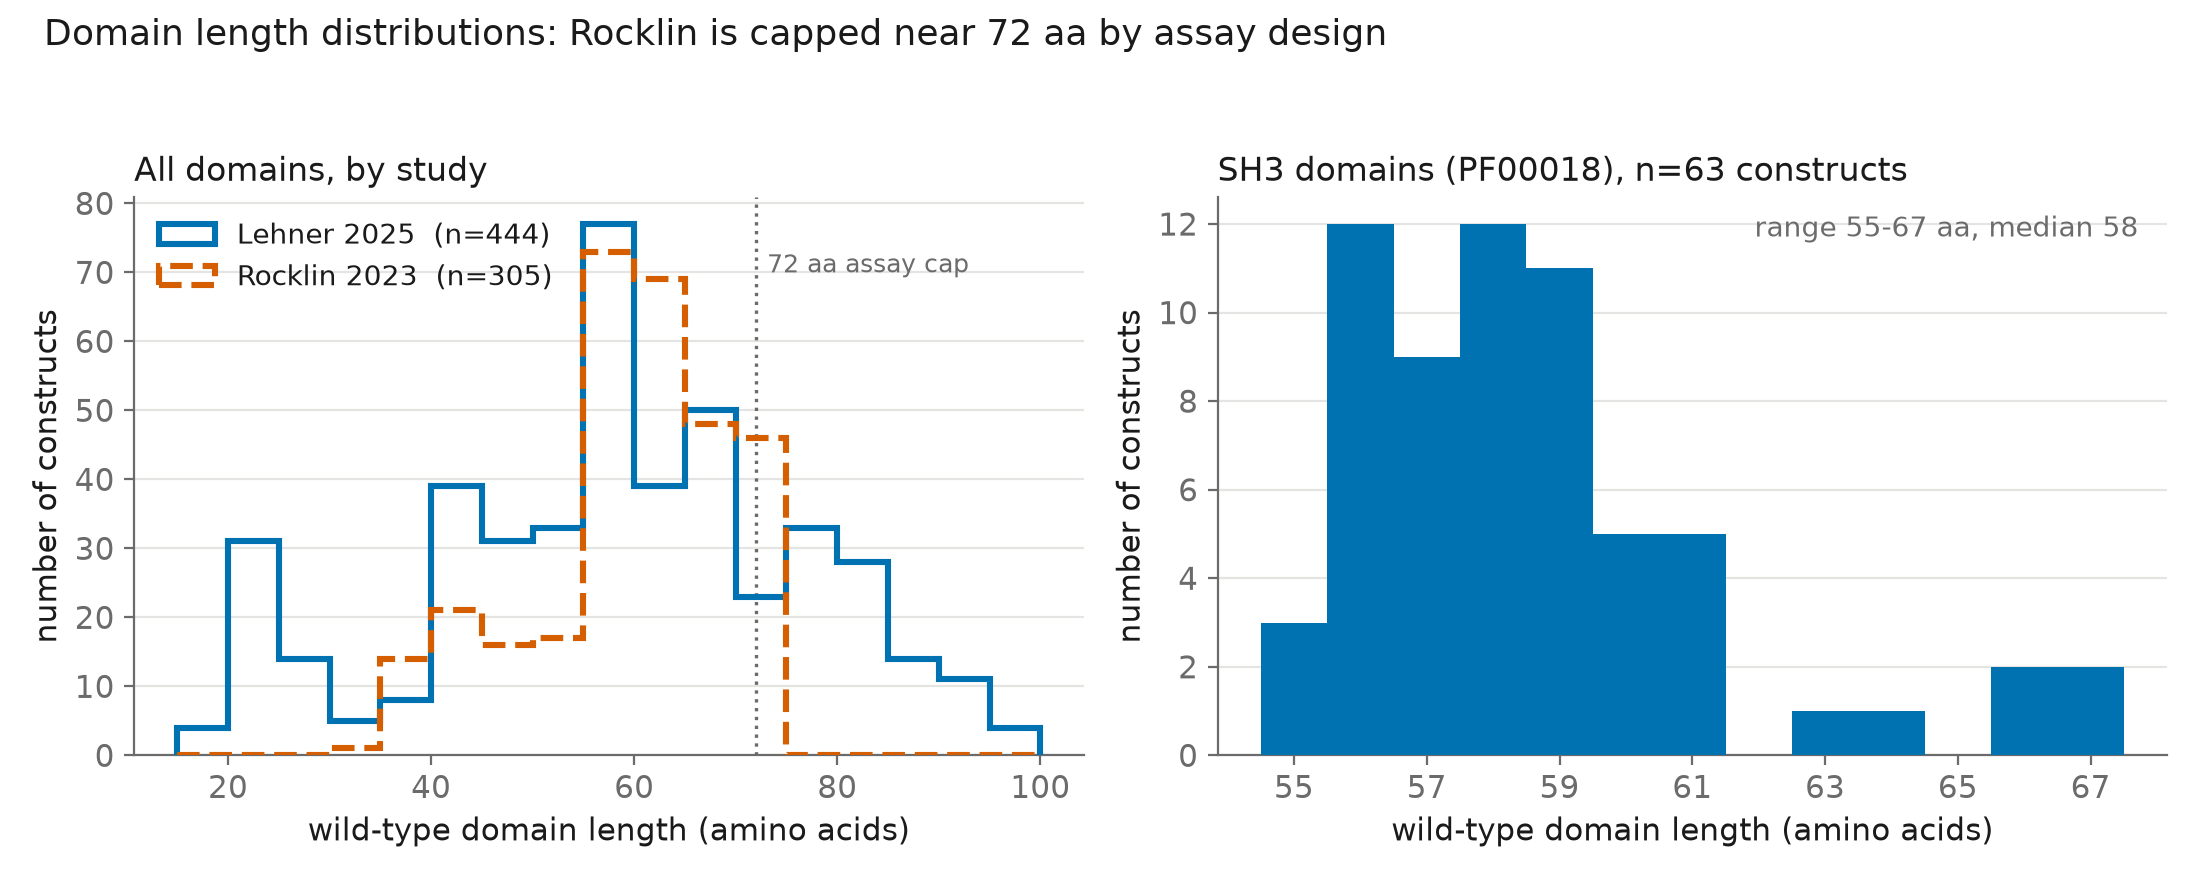
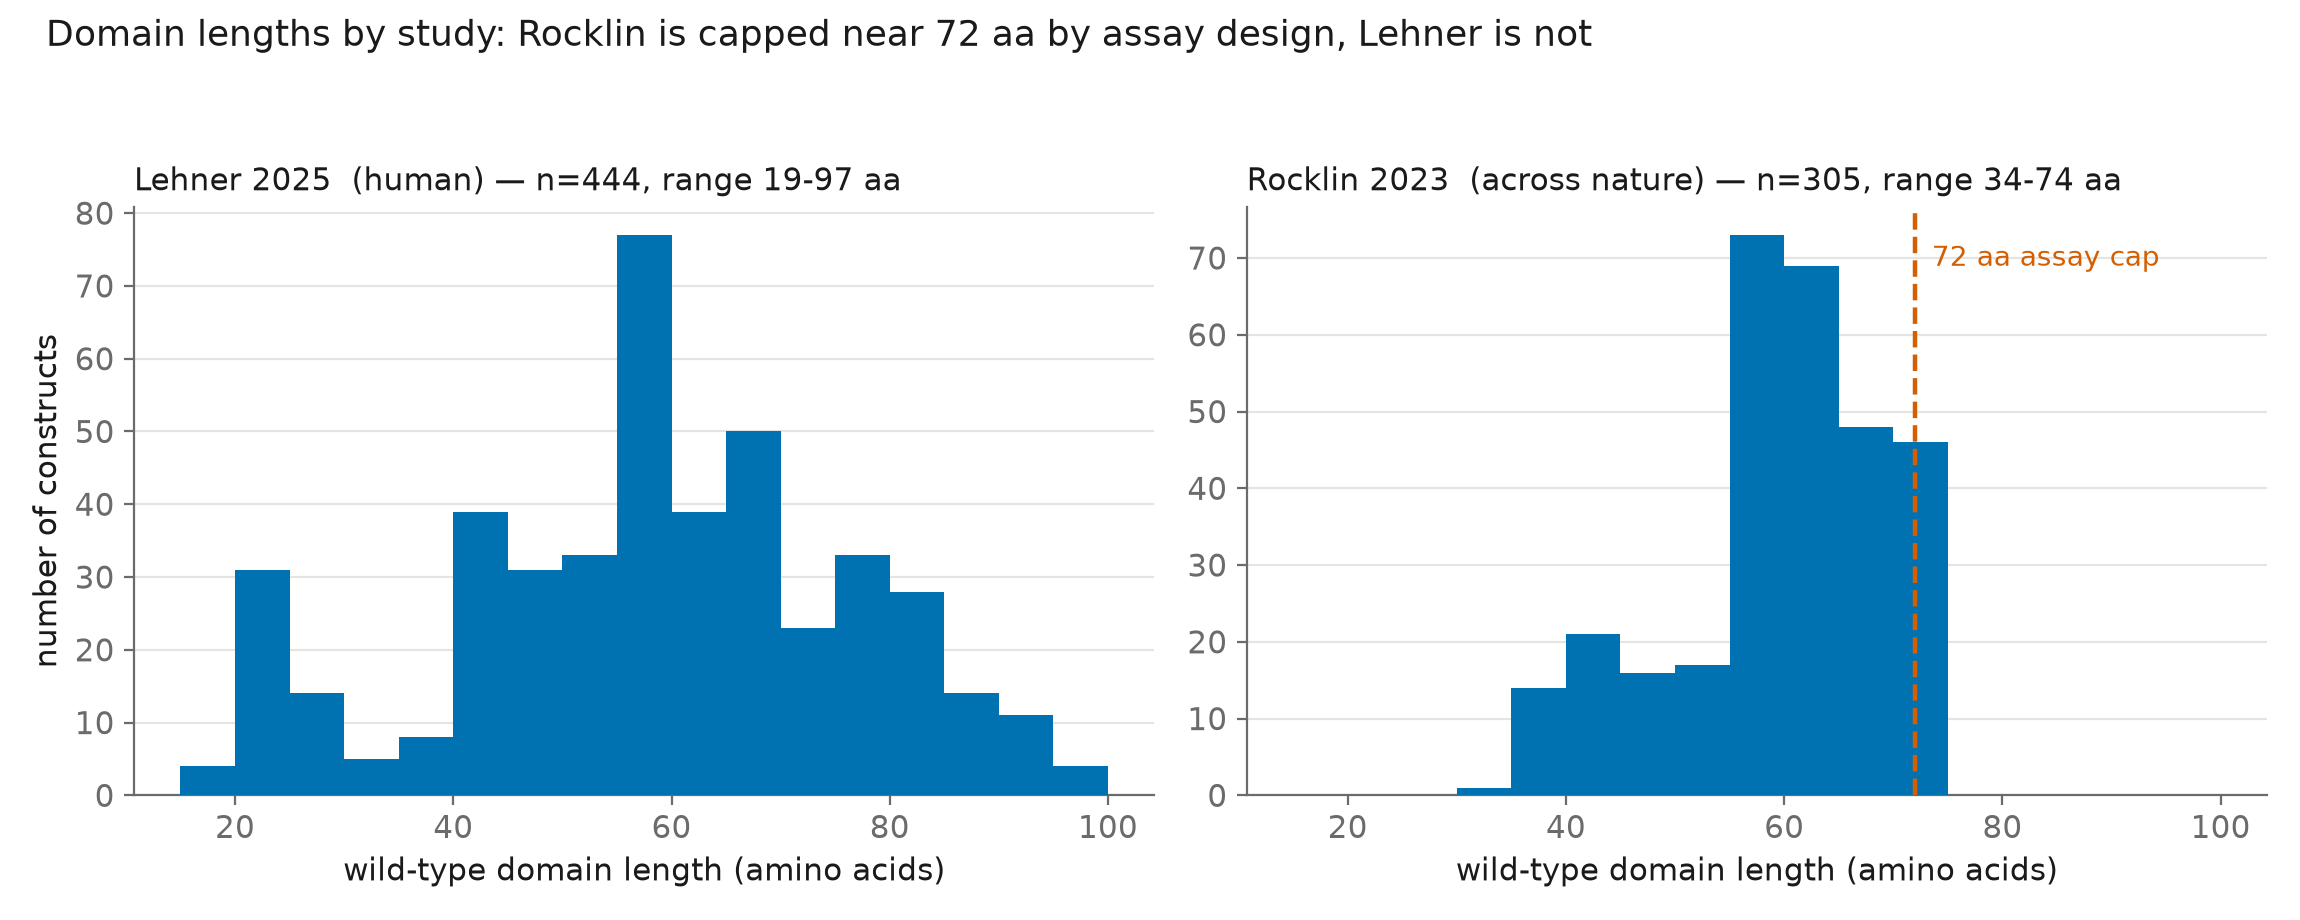
Split every figure into per-study panels
The two studies sample different parts of protein space, so pooled panels
overstated how much depth is available. Every figure now shows Lehner and
Rocklin side by side, and the SH3 pilot family gets its own figure rather than
sharing one with the overall length distribution.

The revised figures make the constraint visible: Lehner carries 25 families at
a cutoff of five domains against Rocklin's 9, and the 60-70% identity range
holds in Lehner while Rocklin has too few families for the criterion to
discriminate at any threshold.

Claude-Session: https://claude.ai/code/session_015mdiiQkAjyaVU4Tc8Dhdh1

diff --git a/scripts/make_figures.py b/scripts/make_figures.py
@@ -12,6 +12,8 @@ output_dir = f"{project_dir}/figures"
 min_wt_seqs = 5
 identity_low = 0.60
 identity_high = 0.70
+studies = [('lehner', 'Lehner 2025  (human)'), ('rocklin', 'Rocklin 2023  (across nature)')]
+thresholds = [2, 3, 4, 5, 6, 8, 10, 12, 15, 20, 26, 30]
 
 os.makedirs(output_dir, exist_ok = True)
 
@@ -46,131 +48,133 @@ def recede(ax):
     ax.set_axisbelow(True)
 
 
+constructs = pd.read_csv(results_dir + "/constructs.csv")
+annotated = constructs.dropna(subset = ['pfam_acc'])
+
+# one row per distinct wild-type domain per study, so the two studies are never pooled
+domains = (annotated.groupby(['pfam_acc', 'wt_sequence'])['paper']
+           .apply(lambda s: set(s)).reset_index(name = 'papers'))
+
 # ---------------------------------------------------------------- figure 1
-# why at least five domains per family: what survives each candidate cutoff
-survival = pd.read_csv(f"{results_dir}/pfam_survival.csv")
+# family depth within each study: how many families survive each cutoff
+fig, axes = plt.subplots(1, 2, figsize = (11.5, 4.6), sharey = True)
 
-fig, axes = plt.subplots(1, 2, figsize = (11, 4.4))
+for ax, (study, label) in zip(axes, studies):
+    recede(ax)
+    present = domains[domains['papers'].apply(lambda p: study in p)]
+    depth = present.groupby('pfam_acc').size()
+    kept = [int((depth >= t).sum()) for t in thresholds]
+    variants = []
+    for t in thresholds:
+        families = depth[depth >= t].index
+        subset = annotated[(annotated['paper'] == study) & (annotated['pfam_acc'].isin(families))]
+        total = annotated[annotated['paper'] == study]['n_variants'].sum()
+        variants.append(100 * subset['n_variants'].sum() / total)
 
-ax = axes[0]
-recede(ax)
-ax.axvline(min_wt_seqs, color = muted, linestyle = ':', linewidth = 1.2, zorder = 1)
-ax.plot(survival['min_wt_seqs'], survival['n_families'], marker = 'o', markersize = 6,
-        linewidth = 2, color = blue, label = 'families retained', zorder = 3)
-ax.plot(survival['min_wt_seqs'], survival['families_in_both'], marker = 's', markersize = 6,
-        linewidth = 2, color = vermillion, label = 'retained and present in both studies', zorder = 3)
-chosen = survival[survival['min_wt_seqs'] == min_wt_seqs].iloc[0]
-ax.annotate(f"{int(chosen['n_families'])} families", xy = (min_wt_seqs, chosen['n_families']),
-            xytext = (8, 10), textcoords = 'offset points', color = blue, fontsize = 10)
-ax.text(0.04, 0.05, f"{int(chosen['families_in_both'])} of them present in both studies",
-        transform = ax.transAxes, color = vermillion, fontsize = 10)
-ax.set_xlim(0, 31)
-ax.set_xlabel('minimum distinct wild-type domains per family')
-ax.set_ylabel('number of Pfam families')
-ax.set_title('Families retained at each cutoff', loc = 'left')
-ax.legend(loc = 'upper right')
+    ax.axvline(min_wt_seqs, color = muted, linestyle = ':', linewidth = 1.2, zorder = 1)
+    ax.plot(thresholds, kept, marker = 'o', markersize = 6, linewidth = 2,
+            color = blue, label = 'families retained', zorder = 3)
+    at_cutoff = kept[thresholds.index(min_wt_seqs)]
+    pct_at_cutoff = variants[thresholds.index(min_wt_seqs)]
+    ax.annotate(f"{at_cutoff} families\n{pct_at_cutoff:.0f}% of this study's variants",
+                xy = (min_wt_seqs, at_cutoff), xytext = (14, 14),
+                textcoords = 'offset points', color = blue, fontsize = 10)
+    ax.set_xlim(0, 31)
+    ax.set_xlabel('minimum distinct wild-type domains per family')
+    ax.set_title(label, loc = 'left')
 
-ax = axes[1]
-recede(ax)
-ax.axvline(min_wt_seqs, color = muted, linestyle = ':', linewidth = 1.2, zorder = 1)
-ax.plot(survival['min_wt_seqs'], survival['pct_variants'], marker = 'o', markersize = 6,
-        linewidth = 2, color = blue, zorder = 3)
-ax.annotate(f"{chosen['pct_variants']:.0f}% of variants kept\nat a cutoff of {min_wt_seqs}",
-            xy = (min_wt_seqs, chosen['pct_variants']), xytext = (14, 6),
-            textcoords = 'offset points', fontsize = 10, color = ink)
-ax.set_ylim(0, 100)
-ax.set_xlim(0, 31)
-ax.set_xlabel('minimum distinct wild-type domains per family')
-ax.set_ylabel('percent of all variants retained')
-ax.set_title('Data retained at each cutoff', loc = 'left')
-
-fig.suptitle("Choosing a family-size threshold: 5 domains keeps 32 families and 65% of the data",
+axes[0].set_ylabel('number of Pfam families')
+axes[0].legend(loc = 'upper right')
+fig.suptitle("Family depth within each study: Lehner carries 25 families at a cutoff of 5, Rocklin only 9",
              fontsize = 13, x = 0.02, ha = 'left')
-plt.tight_layout(rect = [0, 0, 1, 0.94])
-path = f"{output_dir}/family_size_threshold.png"
-plt.savefig(path)
+plt.tight_layout(rect = [0, 0, 1, 0.93])
+plt.savefig(f"{output_dir}/family_size_threshold.png")
 plt.close()
-print(f"saved {path}")
+print("saved family_size_threshold.png")
 
 # ---------------------------------------------------------------- figure 2
-# why 60-70 percent identity: usable families against the two failure modes
+# clustering behaviour within each study
 report = pd.read_csv(f"{results_dir}/cluster_report.csv")
 report['usable'] = (report['n_clusters'] >= 5) & (report['pct_in_largest'] <= 50)
 report['fragmented'] = report['pct_in_largest'] < 15
 report['dominated'] = report['pct_in_largest'] > 50
-by_threshold = report.groupby('threshold')[['usable', 'fragmented', 'dominated']].sum().reset_index()
-n_families = report['pfam_acc'].nunique()
 
-fig, ax = plt.subplots(figsize = (8, 5))
-recede(ax)
-ax.axvspan(identity_low * 100, identity_high * 100, color = "#eef2f6", zorder = 0)
-ax.plot(by_threshold['threshold'] * 100, by_threshold['usable'], marker = 'o', markersize = 7,
-        linewidth = 2.2, color = blue, label = 'usable for splitting', zorder = 3)
-ax.plot(by_threshold['threshold'] * 100, by_threshold['dominated'], marker = 's', markersize = 7,
-        linewidth = 2, color = vermillion, label = 'collapsed into one dominant cluster', zorder = 3)
-ax.plot(by_threshold['threshold'] * 100, by_threshold['fragmented'], marker = '^', markersize = 7,
-        linewidth = 2, color = green, label = 'shattered into singletons', zorder = 3)
-ax.text((identity_low + identity_high) / 2 * 100, n_families * 0.99, 'operating range',
-        ha = 'center', va = 'top', fontsize = 10, color = muted)
-end = by_threshold.iloc[-1]
-for value, colour in [(end['usable'], blue), (end['dominated'], vermillion), (end['fragmented'], green)]:
-    ax.annotate(f"{int(value)}", xy = (end['threshold'] * 100, value), xytext = (10, -4),
-                textcoords = 'offset points', color = colour, fontsize = 11, fontweight = 'bold')
-ax.set_xlim(27, 96)
-ax.set_xlabel('sequence identity threshold (percent)')
-ax.set_ylabel(f'number of families (of {n_families})')
-ax.set_ylim(0, n_families)
-ax.set_title("Choosing a clustering threshold: 60-70% identity keeps most families splittable\n"
-             "usable = at least 5 clusters with no cluster holding over half the domains",
-             loc = 'left', fontsize = 12)
-ax.legend(loc = 'upper center', bbox_to_anchor = (0.5, -0.14), ncol = 3, fontsize = 10)
-plt.tight_layout()
-path = f"{output_dir}/identity_threshold.png"
-plt.savefig(path)
+fig, axes = plt.subplots(1, 2, figsize = (11.5, 5), sharey = False)
+
+for ax, (study, label) in zip(axes, studies):
+    recede(ax)
+    scoped = report[report['scope'] == study]
+    n_families = scoped['pfam_acc'].nunique()
+    by_threshold = scoped.groupby('threshold')[['usable', 'fragmented', 'dominated']].sum().reset_index()
+
+    ax.axvspan(identity_low * 100, identity_high * 100, color = "#eef2f6", zorder = 0)
+    ax.plot(by_threshold['threshold'] * 100, by_threshold['usable'], marker = 'o', markersize = 7,
+            linewidth = 2.2, color = blue, label = 'usable for splitting', zorder = 3)
+    ax.plot(by_threshold['threshold'] * 100, by_threshold['dominated'], marker = 's', markersize = 7,
+            linewidth = 2, color = vermillion, label = 'one dominant cluster', zorder = 3)
+    ax.plot(by_threshold['threshold'] * 100, by_threshold['fragmented'], marker = '^', markersize = 7,
+            linewidth = 2, color = green, label = 'shattered into singletons', zorder = 3)
+    ax.set_xlim(27, 94)
+    ax.set_ylim(0, n_families)
+    ax.set_xlabel('sequence identity threshold (percent)')
+    ax.set_ylabel(f'number of families (of {n_families})')
+    ax.set_title(f"{label} — {n_families} families", loc = 'left')
+
+axes[0].text((identity_low + identity_high) / 2 * 100, 18, 'operating\nrange',
+             ha = 'center', va = 'center', fontsize = 9, color = muted)
+axes[0].legend(loc = 'center left', fontsize = 10)
+fig.suptitle("Clustering behaviour by study: the 60-70% range holds in Lehner; Rocklin is too thin to discriminate",
+             fontsize = 13, x = 0.02, ha = 'left')
+plt.tight_layout(rect = [0, 0, 1, 0.93])
+plt.savefig(f"{output_dir}/identity_threshold.png")
 plt.close()
-print(f"saved {path}")
+print("saved identity_threshold.png")
 
 # ---------------------------------------------------------------- figure 3
-# domain length distributions, overall and for the sh3 pilot family
-constructs = pd.read_csv(f"{results_dir}/constructs.csv")
-lehner = constructs[constructs['paper'] == 'lehner']['wt_length']
-rocklin = constructs[constructs['paper'] == 'rocklin']['wt_length']
-sh3 = constructs[constructs['pfam_acc'] == 'PF00018']['wt_length']
-
-fig, axes = plt.subplots(1, 2, figsize = (11, 4.4))
-
-ax = axes[0]
-recede(ax)
+# domain lengths, one panel per study
+fig, axes = plt.subplots(1, 2, figsize = (11.5, 4.6), sharex = True)
 bins = np.arange(15, 105, 5)
-ax.hist(lehner, bins = bins, histtype = 'step', linewidth = 2.2, color = blue,
-        label = f'Lehner 2025  (n={len(lehner)})', zorder = 3)
-ax.hist(rocklin, bins = bins, histtype = 'step', linewidth = 2.2, linestyle = '--', color = vermillion,
-        label = f'Rocklin 2023  (n={len(rocklin)})', zorder = 3)
-ax.axvline(72, color = muted, linestyle = ':', linewidth = 1.2, zorder = 1)
-ax.annotate('72 aa assay cap', xy = (72, 70), xytext = (4, 0), textcoords = 'offset points',
-            fontsize = 9, color = muted)
-ax.set_xlabel('wild-type domain length (amino acids)')
-ax.set_ylabel('number of constructs')
-ax.set_title('All domains, by study', loc = 'left')
-ax.legend(loc = 'upper left', fontsize = 10)
 
-ax = axes[1]
-recede(ax)
-ax.hist(sh3, bins = np.arange(54.5, 68.5, 1), color = blue, zorder = 3)
-ax.set_xticks(np.arange(55, 68, 2))
-ax.set_xlabel('wild-type domain length (amino acids)')
-ax.set_ylabel('number of constructs')
-ax.set_title(f'SH3 domains (PF00018), n={len(sh3)} constructs', loc = 'left')
-ax.annotate(f"range {int(sh3.min())}-{int(sh3.max())} aa, median {sh3.median():.0f}",
-            xy = (0.97, 0.93), xycoords = 'axes fraction', ha = 'right', fontsize = 10, color = muted)
+for ax, (study, label) in zip(axes, studies):
+    recede(ax)
+    lengths = constructs[constructs['paper'] == study]['wt_length']
+    ax.hist(lengths, bins = bins, color = blue, zorder = 3)
+    if study == 'rocklin':
+        ax.axvline(72, color = vermillion, linestyle = '--', linewidth = 1.6, zorder = 4)
+        ax.annotate('72 aa assay cap', xy = (72, ax.get_ylim()[1] * 0.9), xytext = (6, 0),
+                    textcoords = 'offset points', fontsize = 10, color = vermillion)
+    ax.set_xlabel('wild-type domain length (amino acids)')
+    ax.set_title(f"{label} — n={len(lengths)}, range {int(lengths.min())}-{int(lengths.max())} aa",
+                 loc = 'left', fontsize = 11)
 
-fig.suptitle("Domain length distributions: Rocklin is capped near 72 aa by assay design",
+axes[0].set_ylabel('number of constructs')
+fig.suptitle("Domain lengths by study: Rocklin is capped near 72 aa by assay design, Lehner is not",
              fontsize = 13, x = 0.02, ha = 'left')
-plt.tight_layout(rect = [0, 0, 1, 0.94])
-path = f"{output_dir}/domain_lengths.png"
-plt.savefig(path)
+plt.tight_layout(rect = [0, 0, 1, 0.93])
+plt.savefig(f"{output_dir}/domain_lengths.png")
 plt.close()
-print(f"saved {path}")
+print("saved domain_lengths.png")
+
+# ---------------------------------------------------------------- figure 4
+# the sh3 pilot family, again one panel per study
+fig, axes = plt.subplots(1, 2, figsize = (11.5, 4.3), sharex = True, sharey = True)
+sh3_bins = np.arange(54.5, 68.5, 1)
+
+for ax, (study, label) in zip(axes, studies):
+    recede(ax)
+    lengths = constructs[(constructs['pfam_acc'] == 'PF00018') & (constructs['paper'] == study)]['wt_length']
+    ax.hist(lengths, bins = sh3_bins, color = blue, zorder = 3)
+    ax.set_xticks(np.arange(55, 68, 2))
+    ax.set_xlabel('wild-type domain length (amino acids)')
+    ax.set_title(f"{label} — n={len(lengths)}, median {lengths.median():.0f} aa", loc = 'left', fontsize = 11)
+
+axes[0].set_ylabel('number of constructs')
+fig.suptitle("SH3 domains (PF00018), the pilot family: comparable length distributions in both studies",
+             fontsize = 13, x = 0.02, ha = 'left')
+plt.tight_layout(rect = [0, 0, 1, 0.92])
+plt.savefig(f"{output_dir}/sh3_lengths.png")
+plt.close()
+print("saved sh3_lengths.png")
 
 print()
 print(f"figures written to {output_dir}")
